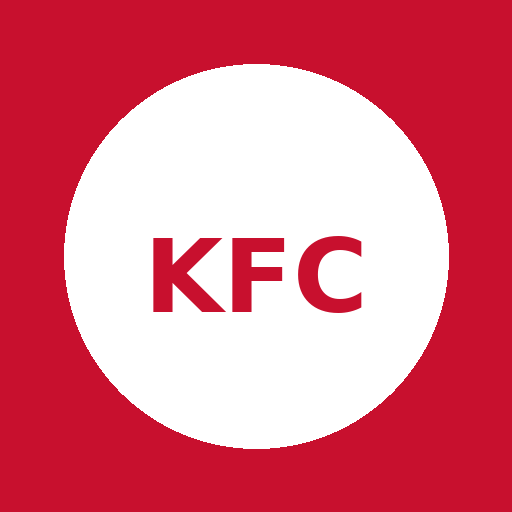
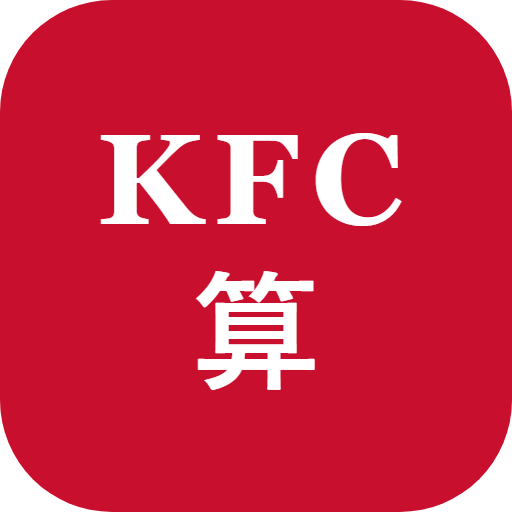
アプリ名をまとめてケンタさんに全体統一・PWAアイコン刷新

diff --git a/index.html b/index.html
@@ -6,10 +6,10 @@
     <meta name="theme-color" content="#c8102e" />
     <meta name="apple-mobile-web-app-capable" content="yes" />
     <meta name="apple-mobile-web-app-status-bar-style" content="default" />
-    <meta name="apple-mobile-web-app-title" content="ケンタ賢者" />
+    <meta name="apple-mobile-web-app-title" content="まとめてケンタさん" />
     <link rel="manifest" href="/manifest.json" />
     <link rel="apple-touch-icon" href="/icon-192.png" />
-    <title>ケンタ賢者</title>
+    <title>まとめてケンタさん</title>
     <link rel="preconnect" href="https://fonts.googleapis.com" />
     <link rel="preconnect" href="https://fonts.gstatic.com" crossorigin />
     <link href="https://fonts.googleapis.com/css2?family=Noto+Sans+JP:wght@400;500;700&family=Oswald:wght@600&display=swap" rel="stylesheet" />

diff --git a/tests/app.spec.js b/tests/app.spec.js
@@ -53,8 +53,8 @@ test('アプリが正常に起動する', async ({ page }) => {
   await page.goto('/')
 
   // ヘッダーが表示される
-  await expect(page.getByText('ケンタ賢者')).toBeVisible()
-  await expect(page.getByText('KFCの注文を賢く最安値で')).toBeVisible()
+  await expect(page.getByText('まとめてケンタさん')).toBeVisible()
+  await expect(page.getByText('みんなの注文、最安セットで')).toBeVisible()
 
   // メニュー読み込み後にメインUIが表示される
   await expect(page.getByText('注文を追加')).toBeVisible()

diff --git a/SPEC.md b/SPEC.md
@@ -1,12 +1,12 @@
-# ケンタ賢者 — 仕様書
+# まとめてケンタさん — 仕様書
 
-> KFCの注文を最安値で組み立てるWebアプリ
+> みんなの注文、最安セットで。
 
 ---
 
 ## 概要
 
-複数人でKFCを注文するとき、単品とセットを最適に組み合わせて合計金額を最小化する。  
+複数人でKFCを注文するとき、単品とセットを最適に組み合わせて合計金額を最小化する。
 メニューデータはGoogleスプレッドシート（CSV公開）から毎回取得する。
 
 ---
@@ -21,6 +21,7 @@
 | 状態管理 | React hooks のみ（外部ライブラリなし） |
 | 永続化 | localStorage |
 | データソース | Google スプレッドシート（CSV） |
+| ホスティング | GitHub Pages |
 
 ---
 
@@ -49,7 +50,7 @@ public/
 GoogleスプレッドシートのCSVから取得。
 
 ```js
-{ id: string, name: string, price: number }
+{ id: string, name: string, price: number, category: string }
 ```
 
 ### sets（セットメニュー）
@@ -73,7 +74,7 @@ GoogleスプレッドシートのCSVから取得。
 
 ### メンバー
 ```js
-{ id: number, name: string }
+{ id: number, name: string, colorIdx: number }
 ```
 
 ### カート
@@ -89,7 +90,7 @@ GoogleスプレッドシートのCSVから取得。
 
 | シート | 内容 |
 |--------|------|
-| ITEMS_URL | 単品メニュー（id, 商品名, 価格） |
+| ITEMS_URL | 単品メニュー（id, 商品名, 価格, カテゴリ） |
 | SETS_URL | セットメニュー（id, セット名, 価格, 含まれる単品） |
 | SIDE_GROUPS_URL | サイド選択肢（グループid, 商品id, 追加料金） |
 | UPDATED_URL | メニュー更新日（キー=updated, 値=日付） |
@@ -134,29 +135,35 @@ GoogleスプレッドシートのCSVから取得。
 ## 画面構成
 
 ### ヘッダー
-- ロゴ・タイトル（ケンタ賢者）
-- ランチモードトグル（ONでランチセット対象に）
+- ロゴ（SVG: KFC＋算）・アプリ名（まとめてケンタさん）・サブタイトル
 
 ### ステータス表示
 - `loading`: スピナー
 - `error`: エラーメッセージ＋再試行ボタン
 
-### メインコンテンツ（2カラムグリッド）
+### メインコンテンツ（2カラムグリッド、スマホは1カラム）
 
 **左カード：注文を追加**
-- メンバー選択タブ（色分け表示）
-  - タップで選択、長押し（600ms）で名前変更・削除モード
+- メニュー更新日タグ
+- アバター式メンバー選択
+  - タップで選択、長押し（600ms）で名前変更・削除・カラー変更モード
   - ＋ボタンでメンバー追加
-- 商品セレクト＋「追加」ボタン
+- 2ペイン商品セレクター
+  - 左ペイン：カテゴリ選択（チキン／バーガー／サイド／ドリンク／キッズ）
+  - 右ペイン：商品リスト（ドリンクはS/M/Lタブで絞り込み）
+  - 期間限定商品は「限定」バッジを表示
+  - 下部：選択商品名・数量調整（−/＋）・「追加」ボタン
 - カートリスト（メンバーごとにグループ表示）
-  - 数量変更（−/＋）
-  - ×で削除
+  - 商品名（期間限定は「限定」バッジ付き）・数量変更・×削除
+  - スマホでカートが空のとき「使い方」ステップガイドを表示
 - 「すべてクリア」ボタン
 
 **右カード：最適な注文構成**
-- 最適化結果の表示
+- タイトル横にランチトグル（ランチ ON/OFF）＋「10時〜15時」バッジ
+- カートが空のとき：使い方ステップガイドを表示（PCのみ）
+- 最適化結果
   - セット：名前・SET/ランチバッジ・固定アイテム・サイド選択内容・個数・金額
-  - 単品：名前・個数・金額
+  - 単品：名前（期間限定は「限定」バッジ付き）・個数・金額
   - 合計金額
   - 節約額（または「単品注文が最安です」）
 - `isCalculating` 中は透明度を下げて表示
@@ -171,15 +178,19 @@ GoogleスプレッドシートのCSVから取得。
 
 | 状態 | 型 | 初期値 | 永続化 |
 |------|----|--------|--------|
-| `members` | Member[] | `[{id:1, name:'メンバー1'}]` | localStorage: `kenta-members` |
+| `members` | Member[] | `[{id:1, name:'メンバー1', colorIdx:0}]` | localStorage: `kenta-members` |
 | `cart` | CartEntry[] | `[]` | localStorage: `kenta-cart` |
 | `selectedMember` | number | 最初のメンバーのid | なし |
 | `selectedItem` | string\|null | null | なし |
 | `isLunch` | boolean | false | なし |
+| `activeCat` | string | `'chicken'` | なし |
+| `drinkSize` | string | `'S'` | なし |
+| `selectorQty` | number | 1 | なし |
 | `addingMember` | boolean | false | なし |
 | `editingMemberId` | number\|null | null | なし |
-| `newMember` | string | '' | なし |
 | `editingName` | string | '' | なし |
+| `editingColorIdx` | number | 0 | なし |
+| `newMember` | string | '' | なし |
 
 ### 重要なmemo計算
 - `qty`: カートからitemId別の合計数量を計算（`useDeferredValue`でdeferredCartを使用）
@@ -190,7 +201,7 @@ GoogleスプレッドシートのCSVから取得。
 
 ## カラーテーマ（メンバー色）
 
-6色のローテーション。メンバーの並び順インデックスで決定。
+6色のローテーション。`colorIdx` で決定（メンバー追加時に未使用の色を自動割り当て）。
 
 ```js
 COLORS     = ['#378ADD','#1D9E75','#BA7517','#D4537E','#7F77DD','#D85A30']  // ボーダー

diff --git a/README.md b/README.md
@@ -1,17 +1,19 @@
-# ケンタ賢者
+# まとめてケンタさん
 
-KFCの注文を賢く最安値で。単品・数量を入力すると、セットと単品の最安の組み合わせを自動計算します。
+みんなの注文、最安セットで。家族やグループのメンバーごとに注文を入力すると、セットと単品の最安の組み合わせを自動計算します。
 
 🌐 **公開URL**: https://porcota.github.io/kfc-optimizer/
 
 ## 機能
 
-- 家族・グループのメンバーごとに注文を入力
+- メンバーごとに注文を入力（色分けアバターで管理）
 - セット＋単品の全組み合わせを総当たりで最安構成を計算
-- ランチメニュー（〜15時）の切り替え対応
+- ランチメニュー（10時〜15時）の切り替え対応
+- 期間限定商品は「限定」バッジで表示
 - メニューデータはGoogleスプレッドシートから自動取得
 - スマホ・PC両対応（レスポンシブ）
 - 注文内容をブラウザに自動保存（localStorage）
+- PWA対応（ホーム画面に追加可能）
 
 ## ローカルで動かす
 
